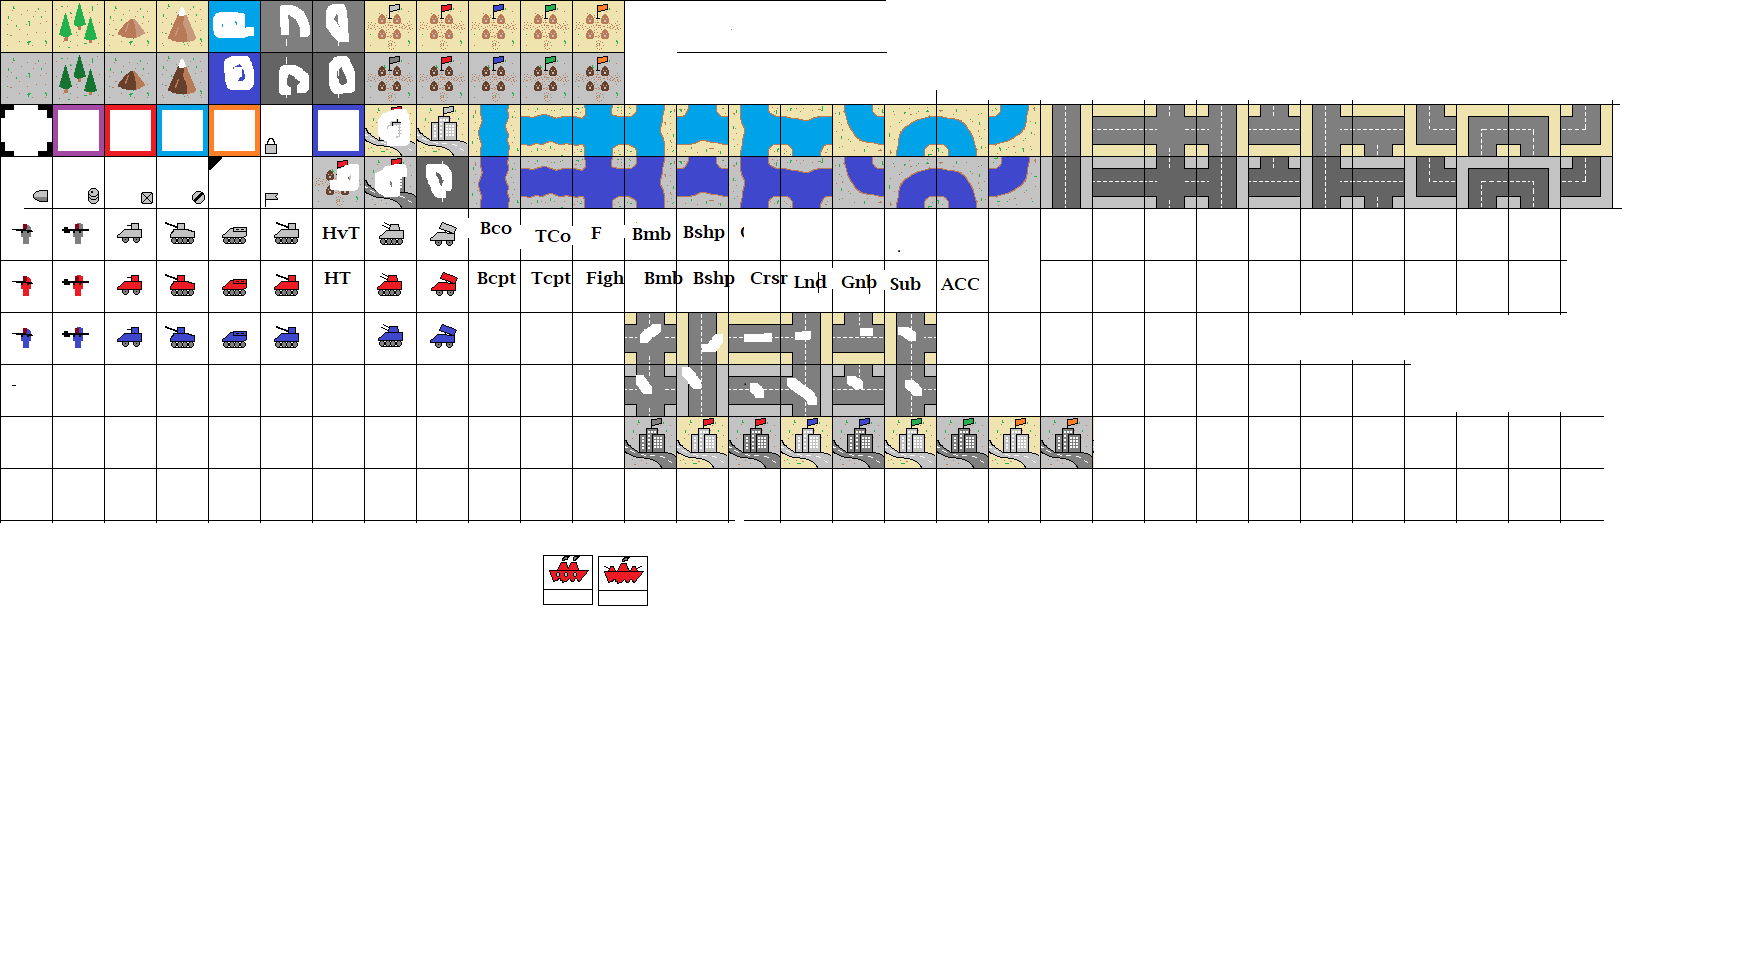
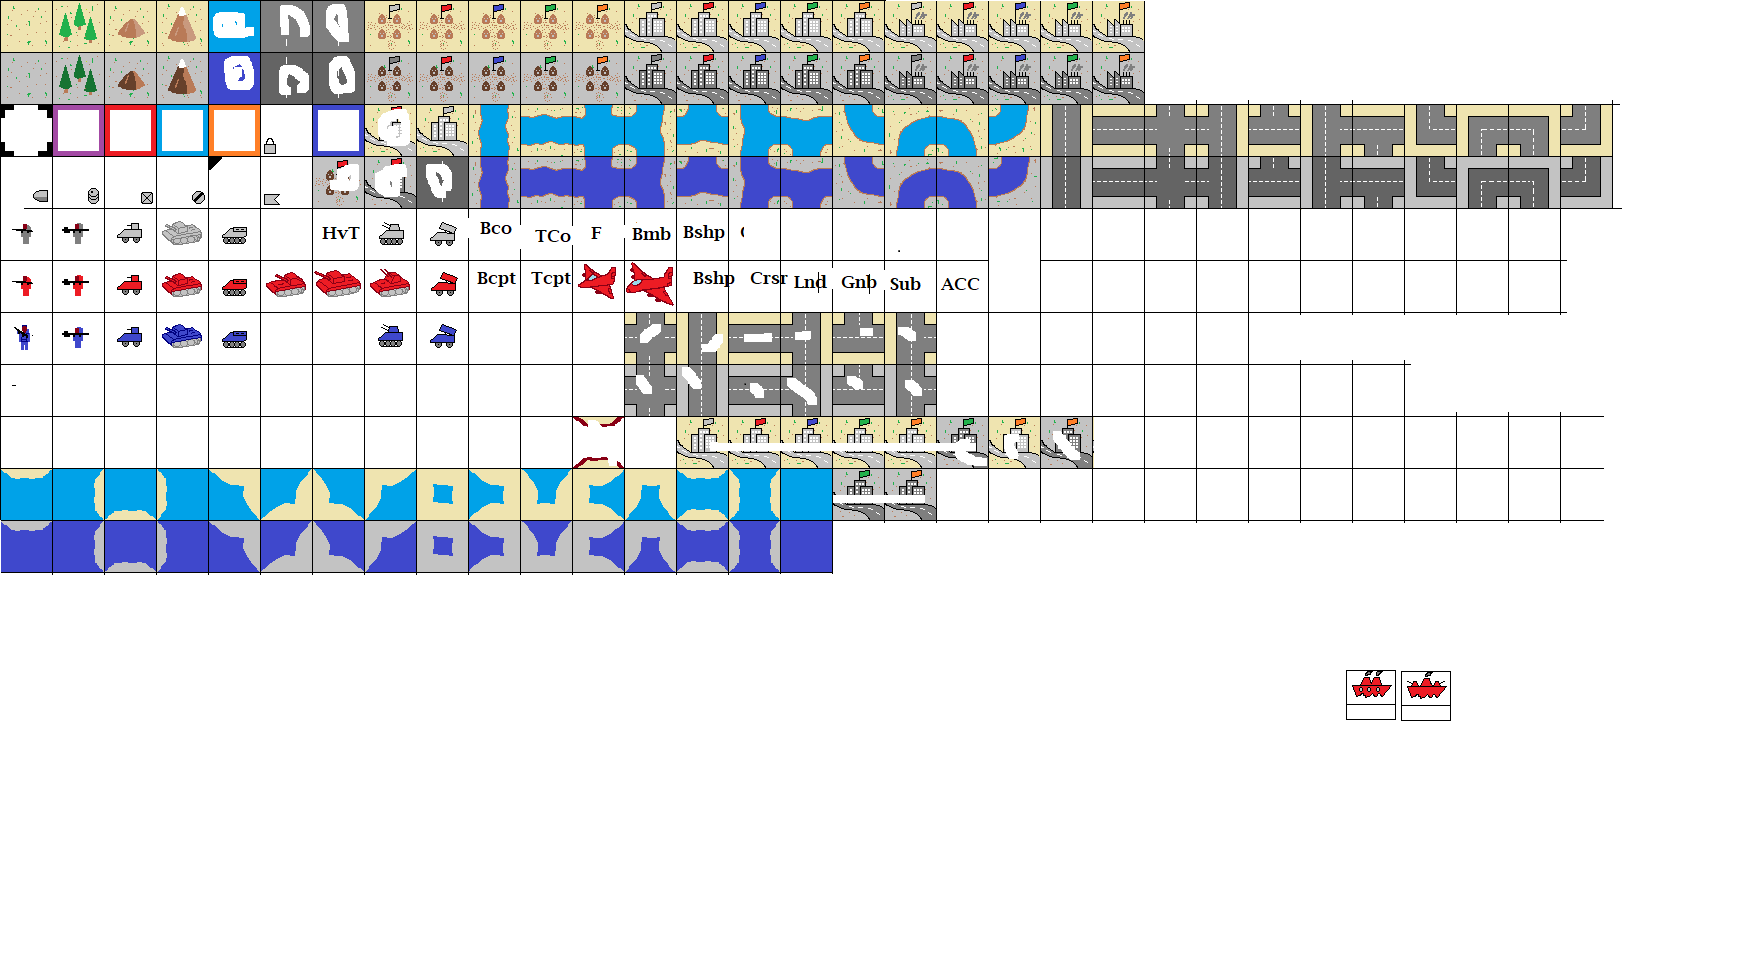
Sea tiles added
Plus hybrid got some updates to allow counterattacks and next-door attack
Plus added new sprites

diff --git a/Tile.cpp b/Tile.cpp
@@ -124,3 +124,160 @@ int tile::determineRiverRoadType( bool thisTileChanged,   MasterBoard* boardToSe
 	return 0;
 
 }
+
+
+int tile::determineSeaType(bool thisTileChanged, MasterBoard* boardToSet)
+{
+	bool upNeigh = false;
+	bool downNeigh = false;
+	bool leftNeigh = false;
+	bool rightNeigh = false;
+
+	//Check each neighbor to see if they are same type
+	//If they are, note it, and call determineRiverRoadType on that tile.
+	if (locationY + 1 >= boardToSet->BOARD_HEIGHT
+		|| (boardToSet->Board[locationX][locationY + 1].symbol == symbol))
+	{
+		downNeigh = true;
+		if (locationY + 1 < boardToSet->BOARD_HEIGHT && thisTileChanged == true)
+			boardToSet->Board[locationX][locationY + 1].determineSeaType(false, boardToSet);
+	}
+	if (locationY <= 0
+		|| (boardToSet->Board[locationX][locationY - 1].symbol == symbol))
+	{
+		upNeigh = true;
+		if (locationY > 0 && thisTileChanged == true)
+			boardToSet->Board[locationX][locationY - 1].determineSeaType(false, boardToSet);
+	}
+	if (locationX <= 0
+		|| (boardToSet->Board[locationX - 1][locationY].symbol == symbol))
+	{
+		leftNeigh = true;
+		if (locationX > 0 && thisTileChanged == true)
+			boardToSet->Board[locationX - 1][locationY].determineSeaType(false, boardToSet);
+	}
+	if (locationX + 1 >= boardToSet->BOARD_WIDTH
+		|| (boardToSet->Board[locationX + 1][locationY].symbol == symbol))
+	{
+		rightNeigh = true;
+		if (locationX + 1 < boardToSet->BOARD_WIDTH && thisTileChanged == true)
+			boardToSet->Board[locationX + 1][locationY].determineSeaType(false, boardToSet);
+	}
+
+	
+	//Change sprite rect based on selections above
+	//Default is up-down
+	//Sideways13 
+	if (downNeigh == false && upNeigh == false && (leftNeigh == true || rightNeigh == true))
+	{
+		mySprite.setTextureRect(rectArray[textureRectAnchorX + 13][textureRectAnchorY]);
+		myFogSprite.setTextureRect(rectArray[textureRectAnchorX + 13][textureRectAnchorY + 1]);
+
+	}
+
+	//Up-down14
+	if (downNeigh == true && upNeigh == true && leftNeigh == false && rightNeigh == false)
+	{
+		mySprite.setTextureRect(rectArray[textureRectAnchorX + 14][textureRectAnchorY]);
+		myFogSprite.setTextureRect(rectArray[textureRectAnchorX+14][textureRectAnchorY + 1]);
+
+	}
+
+	//Four way
+	if (downNeigh == true && upNeigh == true && leftNeigh == true && rightNeigh == true)
+	{
+		mySprite.setTextureRect(rectArray[textureRectAnchorX + 15][textureRectAnchorY]);
+		myFogSprite.setTextureRect(rectArray[textureRectAnchorX + 15][textureRectAnchorY + 1]);
+
+	}
+
+	//Pond
+	if (downNeigh == false && upNeigh == false && leftNeigh == false && rightNeigh == false)
+	{
+		mySprite.setTextureRect(rectArray[textureRectAnchorX + 8][textureRectAnchorY]);
+		myFogSprite.setTextureRect(rectArray[textureRectAnchorX + 8][textureRectAnchorY + 1]);
+
+	}
+
+	//3 Way
+	if (downNeigh == true && upNeigh == true && leftNeigh == true && rightNeigh == false)
+	{
+		mySprite.setTextureRect(rectArray[textureRectAnchorX + 1][textureRectAnchorY]);
+		myFogSprite.setTextureRect(rectArray[textureRectAnchorX + 1][textureRectAnchorY + 1]);
+
+	}
+	if (downNeigh == false && upNeigh == true && leftNeigh == true && rightNeigh == true)
+	{
+		mySprite.setTextureRect(rectArray[textureRectAnchorX + 2][textureRectAnchorY]);
+		myFogSprite.setTextureRect(rectArray[textureRectAnchorX + 2][textureRectAnchorY + 1]);
+
+	}
+	if (downNeigh == true && upNeigh == true && leftNeigh == false && rightNeigh == true)
+	{
+		mySprite.setTextureRect(rectArray[textureRectAnchorX + 3][textureRectAnchorY]);
+		myFogSprite.setTextureRect(rectArray[textureRectAnchorX + 3][textureRectAnchorY + 1]);
+
+	}
+	if (downNeigh == true && upNeigh == false && leftNeigh == true && rightNeigh == true)
+	{
+		mySprite.setTextureRect(rectArray[textureRectAnchorX ][textureRectAnchorY]);
+		myFogSprite.setTextureRect(rectArray[textureRectAnchorX ][textureRectAnchorY + 1]);
+
+	}
+
+	//Diagonals
+	if (downNeigh == false && upNeigh == true && leftNeigh == false && rightNeigh == true)
+	{
+		mySprite.setTextureRect(rectArray[textureRectAnchorX + 6][textureRectAnchorY]);
+		myFogSprite.setTextureRect(rectArray[textureRectAnchorX + 6][textureRectAnchorY + 1]);
+
+	}
+	if (downNeigh == true && upNeigh == false && leftNeigh == false && rightNeigh == true)
+	{
+		mySprite.setTextureRect(rectArray[textureRectAnchorX + 7][textureRectAnchorY]);
+		myFogSprite.setTextureRect(rectArray[textureRectAnchorX + 7][textureRectAnchorY + 1]);
+
+	}
+	if (downNeigh == true && upNeigh == false && leftNeigh == true && rightNeigh == false)
+	{
+		mySprite.setTextureRect(rectArray[textureRectAnchorX + 4][textureRectAnchorY]);
+		myFogSprite.setTextureRect(rectArray[textureRectAnchorX + 4][textureRectAnchorY + 1]);
+
+	}
+	if (downNeigh == false && upNeigh == true && leftNeigh == true && rightNeigh == false)
+	{
+		mySprite.setTextureRect(rectArray[textureRectAnchorX + 5][textureRectAnchorY]);
+		myFogSprite.setTextureRect(rectArray[textureRectAnchorX + 5][textureRectAnchorY + 1]);
+
+	}
+
+	//Bays
+	if (downNeigh == false && upNeigh == false && leftNeigh == false && rightNeigh == true)
+	{
+		mySprite.setTextureRect(rectArray[textureRectAnchorX + 11][textureRectAnchorY]);
+		myFogSprite.setTextureRect(rectArray[textureRectAnchorX + 11][textureRectAnchorY + 1]);
+
+	}
+	if (downNeigh == true && upNeigh == false && leftNeigh == false && rightNeigh == false)
+	{
+		mySprite.setTextureRect(rectArray[textureRectAnchorX + 12][textureRectAnchorY]);
+		myFogSprite.setTextureRect(rectArray[textureRectAnchorX + 12][textureRectAnchorY + 1]);
+
+	}
+	if (downNeigh == false && upNeigh == false && leftNeigh == true && rightNeigh == false)
+	{
+		mySprite.setTextureRect(rectArray[textureRectAnchorX + 9][textureRectAnchorY]);
+		myFogSprite.setTextureRect(rectArray[textureRectAnchorX + 9][textureRectAnchorY + 1]);
+
+	}
+	if (downNeigh == false && upNeigh == true && leftNeigh == false && rightNeigh == false)
+	{
+		mySprite.setTextureRect(rectArray[textureRectAnchorX + 10][textureRectAnchorY]);
+		myFogSprite.setTextureRect(rectArray[textureRectAnchorX + 10][textureRectAnchorY + 1]);
+
+	}
+
+
+	return 0;
+
+}

diff --git a/MasterBoard.cpp b/MasterBoard.cpp
@@ -267,8 +267,9 @@ double consultAttackValuesChart(Minion& attackingMinion, Minion& defendingMinion
 
 	if (attackingMinion.rangeType == hybridRange)
 	{
-		if (attackingMinion.status == gaveupmovehasntfired)
+		if (attackingMinion.status == gaveupmovehasntfired || attackingMinion.status == hasntmovedorfired)
 		{	//If hybrid and didn't move, can still do direct attack with secondary weapon.
+			//Had to change to allow AA to counterattack with secondary weapon.
 			if (isAdjacent(attackingMinion.locationX, defendingMinion.locationX, attackingMinion.locationY, defendingMinion.locationY))
 			{
 				if (attackingMinion.currentSecAmmo > 0)
@@ -1375,9 +1376,8 @@ int MasterBoard::setAttackField(int inputX, int inputY, int inputRange)		//Prima
 	}
 
 	//These are all cases where direct fire can occur:
-	if ((cursor.selectMinionPointer->rangeType == hybridRange && cursor.selectMinionPointer->status == hasmovedhasntfired)
-		|| (cursor.selectMinionPointer->rangeType == directFire &&
-		(cursor.selectMinionPointer->status == hasmovedhasntfired || cursor.selectMinionPointer->status == gaveupmovehasntfired)))
+	if ((cursor.selectMinionPointer->rangeType == directFire  )&&
+		(cursor.selectMinionPointer->status == hasmovedhasntfired || cursor.selectMinionPointer->status == gaveupmovehasntfired))
 	{
 		if (inputX < BOARD_WIDTH - 1)
 			Board[inputX + 1][inputY].withinRange = true;
@@ -1393,7 +1393,7 @@ int MasterBoard::setAttackField(int inputX, int inputY, int inputRange)		//Prima
 
 	}
 	else	//If not a direct fire scenario, it's a ranged scenario:
-		if ((cursor.selectMinionPointer->rangeType == hybridRange || cursor.selectMinionPointer->rangeType == rangedFire) &&
+		if ((cursor.selectMinionPointer->rangeType == rangedFire) &&
 			(cursor.selectMinionPointer->status == gaveupmovehasntfired))
 		{
 
@@ -1417,7 +1417,47 @@ int MasterBoard::setAttackField(int inputX, int inputY, int inputRange)		//Prima
 					}
 				}
 			}
-		}
+		} 
+		else	//Or it's a hybrid fire scenario
+			if (cursor.selectMinionPointer->rangeType == hybridRange
+				&& cursor.selectMinionPointer->status == gaveupmovehasntfired )
+			{
+				for (int x = 0; x < BOARD_WIDTH; x++)
+				{
+					for (int y = 0; y < BOARD_HEIGHT; y++)
+					{
+
+						distanceX = abs(inputX - x);
+						distanceY = abs(inputY - y);
+
+						//Must be within range. Ignore minimum range.
+						if ((distanceX + distanceY) <= Board[inputX][inputY].minionOnTop->attackRange )
+						{
+							Board[x][y].withinRange = true;
+						}
+						else
+						{
+							Board[x][y].withinRange = false;
+						}
+					}
+				}
+			}else 
+				if ( cursor.selectMinionPointer->status == hasmovedhasntfired 
+					&& cursor.selectMinionPointer->rangeType == hybridRange)
+			{
+				if (inputX < BOARD_WIDTH - 1)
+					Board[inputX + 1][inputY].withinRange = true;
+
+				if (inputX > 0)
+					Board[inputX - 1][inputY].withinRange = true;
+
+				if (inputY < BOARD_HEIGHT - 1)
+					Board[inputX][inputY + 1].withinRange = true;
+
+				if (inputY > 0)
+					Board[inputX][inputY - 1].withinRange = true;
+
+			}
 
 	//Minion's tile should not have red indicator
 	Board[inputX][inputY].withinRange = false;

diff --git a/Tile.hpp b/Tile.hpp
@@ -231,7 +231,7 @@ public:
 	}
 
 	int determineRiverRoadType(bool thisTileChanged, MasterBoard* boardToSet);
-	
+	int determineSeaType(bool thisTileChanged, MasterBoard* boardToSet);
 	int production;				//Amount of money it produces
 	int controller;				//Player number 1/2 or neutral 0.
 	char symbol;
@@ -299,8 +299,12 @@ public:
 			description = "City.";
 			defenseFactor = 1.3;
 			production = 2000;
-			mySprite.setTextureRect(rectArray[7][0]);
-			myFogSprite.setTextureRect(rectArray[8][0]);
+
+			textureRectAnchorX = 12;
+			textureRectAnchorY = 0;
+
+			mySprite.setTextureRect(rectArray[textureRectAnchorX + controller][textureRectAnchorY]);
+			myFogSprite.setTextureRect(rectArray[textureRectAnchorX + controller][textureRectAnchorY + 1]);
 			break;
 		}
 		case('m'):
@@ -329,6 +333,11 @@ public:
 			description = "Factory.";
 			defenseFactor = 1.3;
 			production = 1000;
+			textureRectAnchorX = 17;
+			textureRectAnchorY = 0;
+
+			mySprite.setTextureRect(rectArray[textureRectAnchorX + controller][textureRectAnchorY]);
+			myFogSprite.setTextureRect(rectArray[textureRectAnchorX + controller][textureRectAnchorY + 1]);
 			
 			break;
 		}
@@ -384,8 +393,15 @@ public:
 		{
 			description = "High seas.";
 			defenseFactor = 1.0;
-			mySprite.setTextureRect(rectArray[4][0]);
-			myFogSprite.setTextureRect(rectArray[4][1]);
+
+			textureRectAnchorY = 9;
+			textureRectAnchorX = 0;
+
+			mySprite.setTextureRect(rectArray[0][9]);
+			myFogSprite.setTextureRect(rectArray[0][10]);
+
+			determineSeaType(true, boardToSet);
+
 			break;
 		}
 

diff --git a/Minion.hpp b/Minion.hpp
@@ -10,6 +10,10 @@ class MasterBoard;
 
 //Status indicators are true also for transports, engineers, etc. hasfired will be true if the transport dropped a guy, for instance.
 enum minionStatus { hasntmovedorfired, hasmovedhasntfired, hasfired, gaveupmovehasntfired };
+//Hybrid fire rules:
+//Can move and shoot like direct fire, but only with secondary weapon.
+//Can stand still and fire pri or sec. Primary always has a minimum range of 1, and sec always has max range of 1.
+//Thus AA can fire at ground units next to regardless of move status, but can only shoot air units outside 1, if it stood still.
 enum RangeType { directFire, rangedFire, hybridRange };
 enum specialtyGroupType { normal, infantry, transport, stealth };
 //Domain type is used not for terrain but everything else. Defensive bonus from terrain, fuel requirement, refuel, move through enemy units, etc.

diff --git a/Minion.cpp b/Minion.cpp
@@ -235,7 +235,8 @@ Minion::Minion(int inputSeniority, int inputX, int inputY, char inputType, int i
 		rangeType = directFire;
 		specialtyGroup = normal;
 		domain = air;
-		
+
+		mySprite.setTextureRect(rectArray[11][inputTeam + 4]);
 		maxFuel = 60;
 		maxPriAmmo = 3;
 		maxSecAmmo = -1;
@@ -251,6 +252,7 @@ Minion::Minion(int inputSeniority, int inputX, int inputY, char inputType, int i
 		specialtyGroup = normal;
 		domain = air;
 		
+		mySprite.setTextureRect(rectArray[12][inputTeam + 4]);
 		maxFuel = 70;
 		maxPriAmmo = 3;
 		break;

diff --git a/MasterBoard.hpp b/MasterBoard.hpp
@@ -44,8 +44,8 @@ public:
 	
 	MasterBoard(sf::Texture* inputTexture);
 	int NUMBEROFPLAYERS = 2;
-	int BOARD_WIDTH = 15;
-	int BOARD_HEIGHT = 20;
+	int BOARD_WIDTH = 12;
+	int BOARD_HEIGHT = 10;
 	int buildPath(bool isItInitialCall, int x, int y, char minionType, std::vector<std::vector<pathSquare>> & pathMapPointer);
 	int buildApparentPathMap(bool isItInitialCall, int x, int y, Minion* inputMinion);
 	int buildTerrainOnlyPathMap(bool isItInitialCall, int x, int y, Minion* inputMinion);

diff --git a/main.cpp b/main.cpp
@@ -34,7 +34,7 @@
 //Global for the moment to support faster production
 //Everyone needs access to this at all times so it seems reasonable
 const int rectArrayWidth = 31;
-const int rectArrayHeight = 9;
+const int rectArrayHeight = 11;
 std::vector <std::vector<sf::IntRect>> rectArray;
 
 int main()

diff --git a/Cursor.hpp b/Cursor.hpp
@@ -6,8 +6,8 @@
 
 //Window HAS been implemented to minimize total print size!!
 //Needs to be anti-consted
-const int WINDOW_HEIGHT = 14;										
-const int WINDOW_WIDTH = 16;
+const int WINDOW_HEIGHT = 10;										
+const int WINDOW_WIDTH = 12;
 
 class MasterBoard;
 
